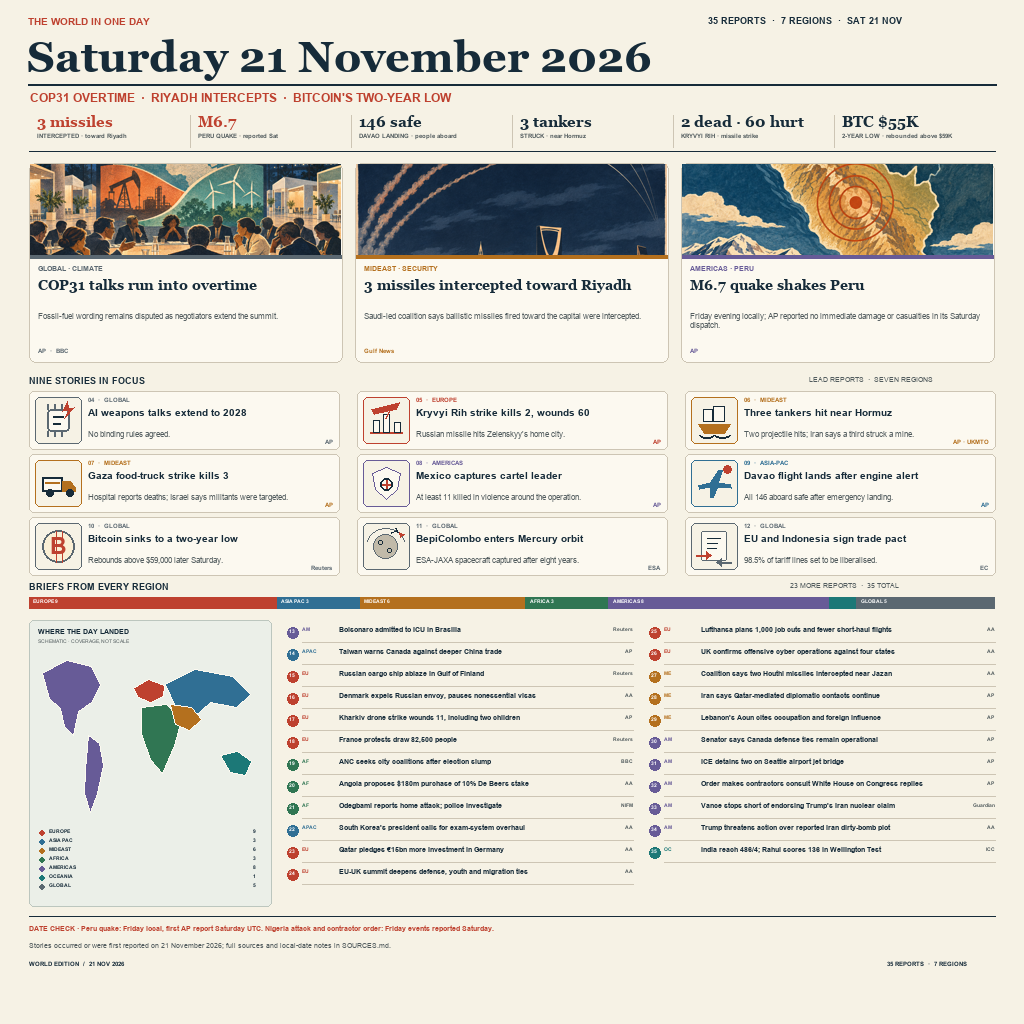
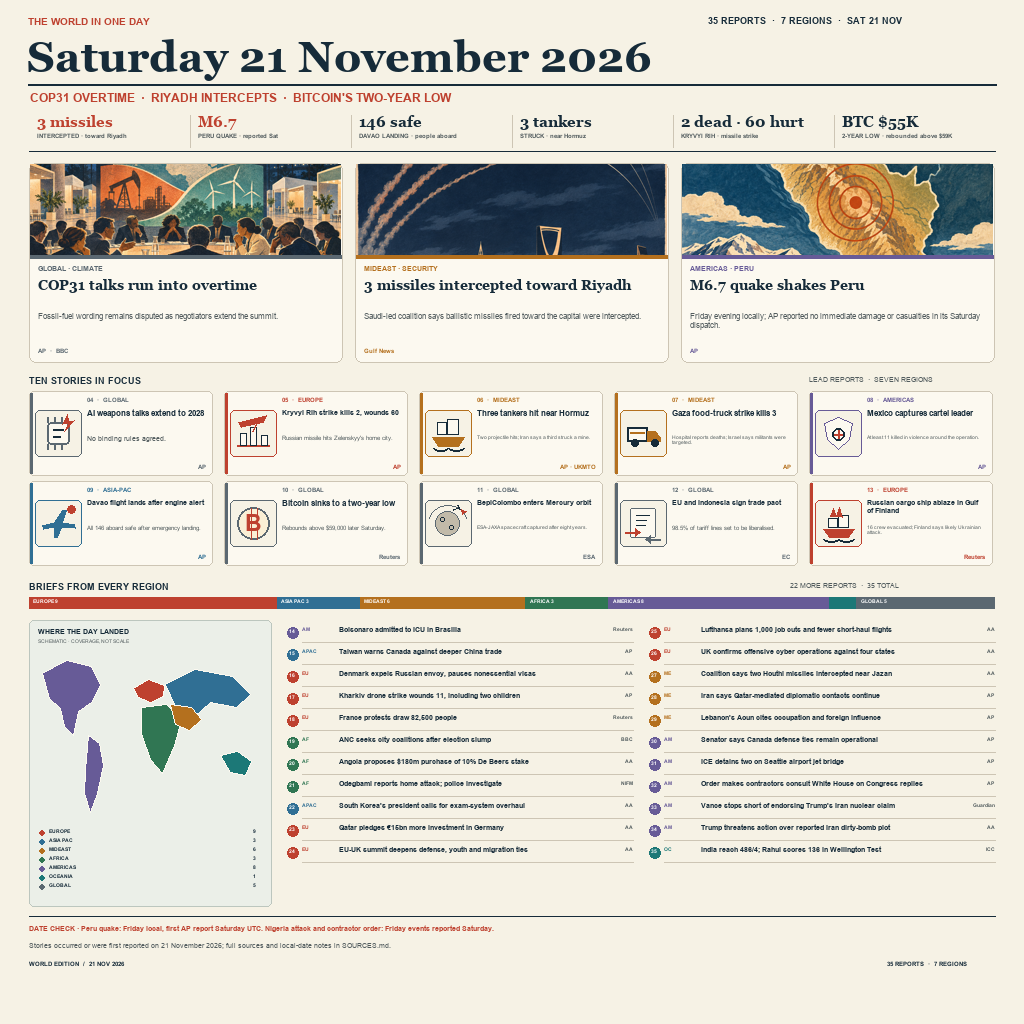
Expand focus stories with Baltic cargo ship attack

diff --git a/SOURCES.md b/SOURCES.md
@@ -1,6 +1,6 @@
 # Source ledger — Saturday 21 November 2026
 
-The image separates three lead stories, nine feature reports, and 23 briefs across seven regions. Reports are dated to the 21 November news cycle; where the event date differs, the date note says so.
+The image separates three lead stories, ten feature reports, and 22 briefs across seven regions. Reports are dated to the 21 November news cycle; where the event date differs, the date note says so.
 
 ## Lead stories
 
@@ -8,7 +8,7 @@ The image separates three lead stories, nine feature reports, and 23 briefs acro
 2. **Riyadh missile interceptions.** Saudi-led coalition said it intercepted three ballistic missiles fired toward Riyadh. [Gulf News, 21 November](https://gulfnews.com/uae/middle-east-war-8-things-uae-residents-need-to-know-tonight-november-21-1.500756425)
 3. **Peru earthquake.** **Date shift:** a magnitude 6.7 quake struck at 7:09 p.m. Friday local time; AP's first report is dated Saturday UTC and said no damage or casualties were immediately reported. [Associated Press](https://apnews.com/article/d9c0a1de6be970d6a5a36993c607f29f)
 
-## Nine feature reports
+## Ten feature reports
 
 4. UN-backed Geneva talks extended discussion of lethal autonomous weapons for two years, without a binding-standards commitment. [Associated Press](https://apnews.com/article/ebe057d2a47cde53100970c8f648e7fa)
 5. AP reported two killed and 60 wounded in the Russian missile strike on Kryvyi Rih; local officials supplied the casualty figures. [Associated Press](https://apnews.com/article/russia-ukraine-war-missile-zelenskyy-trump-bfdee2ffadc2693e7338d6822e5356ef)
@@ -19,12 +19,12 @@ The image separates three lead stories, nine feature reports, and 23 briefs acro
 10. Bitcoin fell to $55,251.60, its lowest level in two years, then rose more than 8% toward $59,952 on Saturday. [Reuters, via Investing.com](https://za.investing.com/news/forex-news/bitcoin-falls-357-to-56814-4589999)
 11. ESA/JAXA's BepiColombo spacecraft was captured into a polar orbit around Mercury on 21 November after its eight-year journey. [European Space Agency](https://www.esa.int/es/media/bepicolombo-arrival-at-mercury-timeline)
 12. The EU and Indonesia signed their comprehensive economic partnership and investment protection agreements; once implemented, up to 98.5% of tariff lines will be liberalised. [European Commission](https://policy.trade.ec.europa.eu/eu-trade-relationships-country-and-region/countries-and-regions/indonesia_en)
+13. The Russian cargo ship Sparta II caught fire after a drone strike in the Gulf of Finland; Finland said the attack was likely Ukrainian, and the 16-member crew evacuated. [Reuters, via StreetInsider](https://www.streetinsider.com/Reuters/Russia%2Bsays%2Bcargo%2Bvessel%2Bstruck%2Bby%2Bdrones%2C%2BFinland%2Bsays%2Bit%2Bis%2Bon%2Bfire%2Bin%2Bits%2Bwaters/27382900.html)
 
-## Twenty-three briefs
+## Twenty-two briefs
 
-13. Brazil's former president Jair Bolsonaro was admitted to intensive care in Brasília with an acute intestinal obstruction; the hospital said he was clinically stable. [Reuters, via Investing.com](https://www.investing.com/news/world-news/brazil-expresident-jair-bolsonaro-taken-to-icu-5043560)
-14. Taiwan's deputy foreign minister warned Canada against deeper China trade ties at the Halifax security forum. [Associated Press](https://apnews.com/article/2e5eb3949e4c1a1d394363663791f883)
-15. The Russian cargo ship Sparta II caught fire after a drone strike in the Gulf of Finland; Finland said the attack was likely Ukrainian, and the 16-member crew evacuated. [Reuters, via StreetInsider](https://www.streetinsider.com/Reuters/Russia%2Bsays%2Bcargo%2Bvessel%2Bstruck%2Bby%2Bdrones%2C%2BFinland%2Bsays%2Bit%2Bis%2Bon%2Bfire%2Bin%2Bits%2Bwaters/27382900.html)
+14. Brazil's former president Jair Bolsonaro was admitted to intensive care in Brasília with an acute intestinal obstruction; the hospital said he was clinically stable. [Reuters, via Investing.com](https://www.investing.com/news/world-news/brazil-expresident-jair-bolsonaro-taken-to-icu-5043560)
+15. Taiwan's deputy foreign minister warned Canada against deeper China trade ties at the Halifax security forum. [Associated Press](https://apnews.com/article/2e5eb3949e4c1a1d394363663791f883)
 16. Denmark ordered Russia's defense attaché to leave and said it would halt non-essential visas for Russian citizens. [Anadolu Agency, Saturday briefing](https://www.aa.com.tr/en/world/morning-briefing-nov-21-2026/4132676)
 17. A Russian drone attack on an apartment building in Ukraine's Kharkiv region wounded 11 people, including two children, officials said. [Associated Press](https://apnews.com/article/russia-ukraine-war-missile-zelenskyy-trump-bfdee2ffadc2693e7338d6822e5356ef)
 18. France's interior ministry counted 82,500 people at Saturday's largely peaceful demonstrations over living costs, public services and police violence, down from 106,000 the previous week. [Reuters, via Internazionale](https://www.2014.internazionale.it/ultime-notizie-reuters/2026/11/21/lower-turnout-at-largely-peaceful-marches-across-france)
